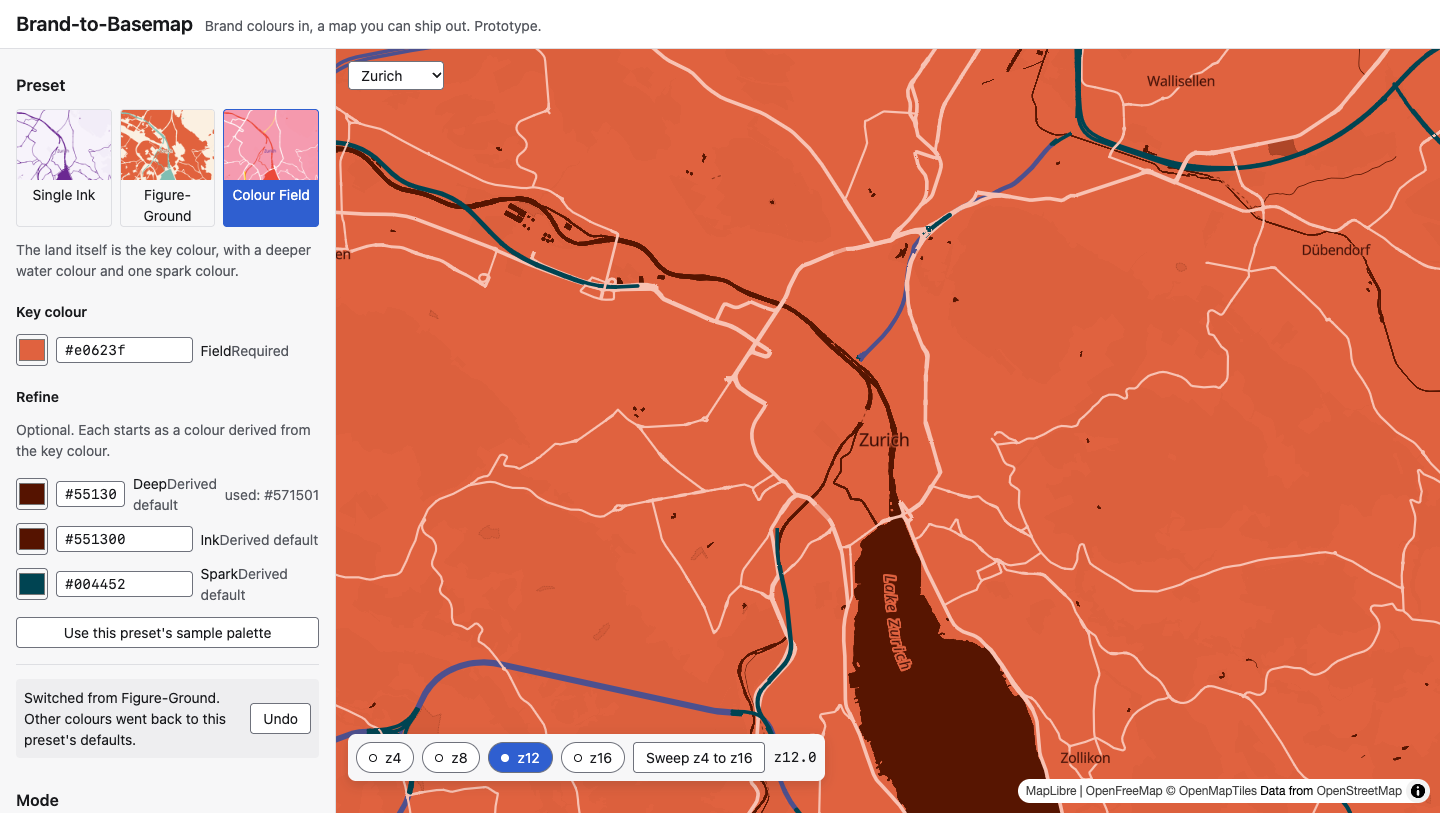
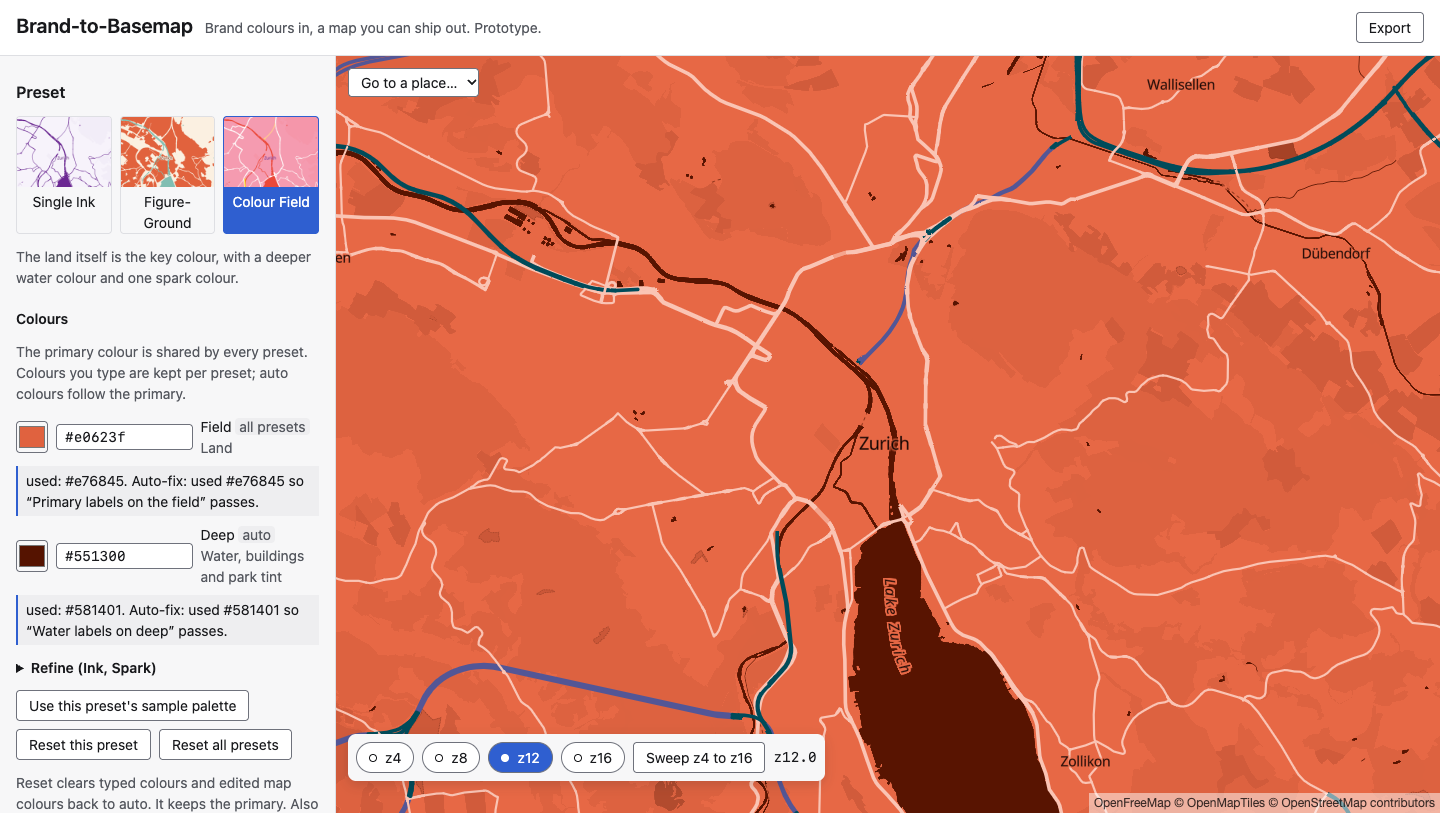
S4 housekeeping: docs match what is built, app capture scripts fixed
CLAUDE.md and the P0 requirements: MapTiler runs the Liberty-based style on
v3-openmaptiles tiles (not Streets v2); colour persistence is DECIDED;
per-zoom-stop pass/fail is dropped from P0; token export stays in F6; the
colour-vision preview joins F5; MapTiler terms note recorded.

capture-app-m3.mjs no longer clicks the removed undo notice: it checks that an
edit survives a preset switch instead. capture-app.mjs no longer clicks the
hidden Dark mode. App screenshots recaptured; the stale undo-notice.png is gone.

diff --git a/docs/p0-requirements.md b/docs/p0-requirements.md
@@ -34,7 +34,7 @@ P0 serves both segments (agencies/freelancers and small product teams) with the 
 3. **Add detail** — toggle groups and label density.
 4. **Switch modes** — light, dark, data (recede slider).
 5. **Check zooms** — zoom stops (z4 / z8 / z12 / z16) on the main map, with a sweep and a review dot per stop.
-6. **Check accessibility** — pass/fail per mode, colour-vision simulation, auto-fix.
+6. **Check accessibility** — pass/fail per mode, colour-vision preview, auto-fix.
 7. **Choose provider** — OpenFreeMap (default) or MapTiler with own key.
 8. **Export** — style JSON per mode, tokens (JSON, CSS), embed snippet.
 
@@ -89,7 +89,7 @@ Everything else depends on this, so it is specified first.
 - Four zoom stops (about z4, z8, z12, z16) sit as chips on the main map. Selecting one flies the single map to that zoom at the current centre.
 - A sweep button animates a smooth zoom through the whole range, so abrupt jumps in colour, line width or label visibility between stops become visible.
 - Each stop has a review dot. Any style change resets all dots to unreviewed; viewing a stop marks it reviewed. The dots are a reminder, not a gate.
-- Each stop also shows the F5 pass/fail status evaluated at its zoom, so a failing stop is flagged before the user visits it.
+- ~~Each stop also shows the F5 pass/fail status evaluated at its zoom, so a failing stop is flagged before the user visits it.~~ **Dropped from P0** (S4, Nov 24, 2026): the checks run on the tokens, which are the same at every zoom, so a per-stop status would repeat the per-mode one.
 - The location is the main map's: the user can pan anywhere or pick from 6 curated cities (default Zurich).
 - The stops are one click away at all times. P0 renders no second map; side-by-side comparison and per-zoom editing are out of scope.
 
@@ -100,8 +100,9 @@ Everything else depends on this, so it is specified first.
 - Checks contrast for label primary (7:1) and secondary (4.5:1) against the colours they sit on, with and without halo.
 - Checks features against land: road major and boundary 3:1; road minor 1.5:1; water and park by OKLab colour distance, not a ratio. The single 0.05 threshold proposed from the per-palette values in `docs/contrast-report.md` is superseded: each preset carries its own distance checks (see `docs/preset-engine.md`).
 - In data mode the road major / land threshold slides linearly from 3:1 at recede 0 to 1.5:1 at recede 100. Labels stay AA.
-- Shows a clear pass or fail summary, per mode and per zoom stop, with the failing token pairs named.
-- Colour-vision simulation toggle: protanopia, deuteranopia, tritanopia.
+- Shows pass or fail per mode, with the failing token pairs named next to the colour they belong to. Per-zoom-stop pass/fail is **dropped from P0** (S4).
+- **Colour-vision preview** (S4): a control in the map view with none, protanopia, deuteranopia, tritanopia and achromatopsia. It is a colour-matrix filter on the map canvas (Machado et al. 2009 for the three dichromacies, luminance for achromatopsia). Preview only: it changes nothing in the tokens, the state, the share link or the exports, and adds no checks or auto-fix rules. What collapses under each simulation is reported in [colour-vision.md](colour-vision.md).
+- **Data-mode auto-fix** (S4): the preset's auto-fix also runs on the data-mode colours after the recede transform, with the same rules, and its notices are labelled "In data mode:".
 - Auto-fix adjusts token lightness, keeping hue as close to the brand as possible, until checks pass. Shows what changed and allows undo.
 - Checks run on every change, not on demand only.
 
@@ -111,7 +112,7 @@ Everything else depends on this, so it is specified first.
 
 - Provider switch: OpenFreeMap (default, no key) or MapTiler (user pastes their own key, stored in localStorage, never in the URL). The deployed app ships with no key and there is no demo key.
 - Switching provider keeps the token set and re-applies it to that provider's base style.
-- Exports: MapLibre style JSON per mode; the token set as JSON and as CSS variables; a copy-paste HTML/JS embed snippet.
+- Exports: MapLibre style JSON per mode; the token set as JSON and as CSS variables; a copy-paste HTML/JS embed snippet. The token export **stays in P0** (confirmed Nov 24, 2026; built in S4): the resolved map tokens as DTCG JSON (`$type: "color"`, hex `$value`, grouped under `map`) and as `--b2b-<token>` CSS custom properties. It never contains a key.
 - The exported style includes a stable, documented anchor layer ID for "add your data above this, below the labels".
 - Required attribution is included automatically for the chosen provider.
 - The current state can be saved and reopened (decided: URL-encoded state in the hash plus local autosave; the MapTiler key is never put in the URL).
@@ -200,12 +201,21 @@ Presets replace the brand-colour list as the first decision. Spec: [presets-desi
 
 Brief: [briefs/m4-export-state.md](briefs/m4-export-state.md). Details: [export.md](export.md).
 
-- **Colour persistence (PM default, pending Artem):** the primary colour is global; each preset remembers its own typed slots and overrides (per mode); derived slots follow the primary and are never stored. "Reset this preset" and "Reset all presets" clear typed values and overrides and keep the primary. The one-step undo is gone: switching presets loses nothing. The sample-palette button sets the primary (for every preset) and types the sample colours for the current preset.
+- **Colour persistence (DECIDED, confirmed by Artem Nov 24, 2026):** the primary colour is global; each preset remembers its own typed slots and overrides (per mode); derived slots follow the primary and are never stored. "Reset this preset" and "Reset all presets" clear typed values and overrides and keep the primary. The one-step undo is gone: switching presets loses nothing. The sample-palette button sets the primary (for every preset) and types the sample colours for the current preset.
 - **State v3** (`BrandState`): `primary`, `presetId`, `perPreset`, `mode`, `recede`, `details`, `density`, `source`, `view`. In the hash as `#s=<base64url JSON>` and in localStorage; the hash wins; a bad hash loads defaults with a notice. The key is not part of the state.
 - **Exports:** an embed snippet (full HTML page, MapLibre 6.16.0 from unpkg, inline style, attribution always expanded) and a style JSON, both for the current mode. A persistent Export button sits in the header.
 - **Data anchor:** `b2b-data-anchor`, an invisible background layer after the last fill or line layer and before the first label.
 - **MapTiler source:** `v3-openmaptiles` tiles and MapTiler fonts with the same Liberty-based style; the sprite stays OpenFreeMap's (Liberty icon names). Logo and "© MapTiler, © OpenStreetMap contributors" when on. Exports carry `YOUR_MAPTILER_KEY` unless the user ticks "Include my key". Rendered comparison: same labels and layers, 1-2 feature differences from data builds.
-- **Notices:** every auto-fix shows next to its slot or map-colour row with the colour used; data-mode holds now report too, and a check that still fails after every fix shows next to its token. Per-zoom-stop pass/fail was skipped.
+- **Notices:** every auto-fix shows next to its slot or map-colour row with the colour used; data-mode holds now report too, and a check that still fails after every fix shows next to its token. Per-zoom-stop pass/fail was skipped, and is dropped from P0 (S4).
+
+### Decisions: finishing P0 (S4, Nov 24, 2026)
+
+Spec: [specs/s4-finish-p0.md](specs/s4-finish-p0.md).
+
+- **Base styles, as built:** Q1 above named MapTiler Streets v2. What ships is the Liberty-based style on both sources: OpenFreeMap tiles, or MapTiler `v3-openmaptiles` tiles with the user's key. Streets v2 is not used by the app.
+- **Per-zoom-stop pass/fail is dropped from P0.** The review dots stay.
+- **Token export stays in P0** (F6) and the **colour-vision preview** is added to F5, as a preview and a report only.
+- **MapTiler terms.** Fine for this case study, because every user supplies their own key and the logo and credit stay visible. A public or commercial product built on this needs MapTiler's agreement (their free plan covers non-commercial use and R&D only).
 
 ## Open items for the PM (spec additions, defaults apply unless Artem objects)
 
@@ -214,7 +224,7 @@ Brief: [briefs/m4-export-state.md](briefs/m4-export-state.md). Details: [export.
 - **Measuring the success criteria.** "Under 5 minutes" needs a timed test with 2–3 first-time users; "renders identically" needs a scripted check (export → plain MapLibre page → visual diff).
 - **Hosting and public link.** Claude Code's call (GitHub Pages or Vercel); no secrets in the repo.
 - **Test palettes.** Use palettes inspired by well-known brands but shown under fictional brand names, to avoid trademark use in a public case study.
-- **Export format details.** Snippet decided in M4 (CDN MapLibre 6.16.0, inline style). Still open: versioned token JSON schema and CSS variable naming, if the token exports stay in P0.
+- **Export format details.** Snippet decided in M4 (CDN MapLibre 6.16.0, inline style). Token exports decided in S4: DTCG JSON with the state schema version in `$extensions`, and `--b2b-<token>` CSS variables (see [export.md](export.md)).
 - **Browser support.** Latest Chrome, Safari, Firefox and Edge.
 
 ## Plan (2-day target)

diff --git a/docs/specs/s4-finish-p0.md b/docs/specs/s4-finish-p0.md
@@ -1,0 +1,74 @@
+# Spec: S4 batch, finish P0
+
+**Project:** Brand-to-Basemap, P0 prototype
+**From:** PM chat (owner: Artem)
+**Status:** ready. M4 is live and accepted. This batch finishes P0 before the design agency pass.
+**Branch:** one branch, `s4-finish-p0`. One workstream per commit series. Run the full test suite after each workstream.
+
+---
+
+## 1. Goal
+
+Close P0 with five small, independent workstreams. They touch different parts of the code (docs, export, engine, map view, repo front page), so they should not collide. Build them in the order below. If time runs short, drop workstream 4 and then 3, but always finish 5, because it captures the final state.
+
+**Out of scope:** UI or layout polish (the design agency owns it), new presets, dark mode, Streets v2, poster export, logo remap, hosting icons, per-zoom-stop pass/fail (dropped from P0).
+
+## 2. Workstreams
+
+### 2.1 Housekeeping (docs and scripts only)
+
+- `CLAUDE.md`: replace "MapTiler Streets v2" with "MapTiler tiles (v3-openmaptiles) with the Liberty-based style". Record the confirmed colour persistence rule as DECIDED.
+- `docs/p0-requirements.md`: mark per-zoom-stop pass/fail as dropped from P0. Keep token export in F6 as P0 (built in 2.2). Add the colour-vision preview to F5 (built in 2.4). Record the MapTiler terms note: fine for the case study with user-supplied keys; a public or commercial product needs MapTiler's agreement.
+- Fix `capture-app-m3.mjs`: it clicks the undo notice, which no longer exists. Fix it or retire it.
+
+**Done when:** the docs match what is built, and every capture script runs.
+
+### 2.2 Token export (F6)
+
+Add a third output to the Export panel, next to the snippet and the style JSON, with Copy and Download:
+- **Design tokens (DTCG JSON):** the resolved map tokens for the current state (preset, slots, overrides, mode, recede), one entry per token with `$type: "color"` and `$value` as hex, grouped under `map`. Put the preset id, the primary colour, the tile source and the state schema version in `$extensions`.
+- **CSS custom properties:** the same tokens as `--b2b-<token>: #xxxxxx;` in a `:root` block.
+
+**Done when:** a test confirms both outputs contain every resolved token and match the colours the map renders; the token export never contains a key. Add a short section to `docs/export.md`.
+
+### 2.3 Data-mode auto-fix (engine)
+
+Run the existing per-preset auto-fix on the data-mode colours after the recede transform, with the same rules: never change a colour the user typed, and show a notice (labelled "In data mode:") when something was adjusted.
+
+**Done when:** the yellow-primary case at recede 80 now passes the road threshold, and a property test over the 10 fixtures x 3 presets x recede 0-100 in steps of 10 finds every check passing or a notice raised.
+
+### 2.4 Colour-vision preview (F5, map view only)
+
+- A control in the map view: none, protanopia, deuteranopia, tritanopia, achromatopsia. It applies a colour-matrix filter to the map canvas (for example an SVG `feColorMatrix` with the Machado et al. 2009 matrices for the three dichromacies, and luminance for achromatopsia).
+- Preview only. It changes nothing in the tokens, the state, the link or the exports.
+- **Report, not checks:** a table in `docs/colour-vision.md` giving, for each preset and the 10 fixtures, the OKLab distance of the carrier pairs (water vs land, fabric vs water, field vs deep, major roads vs ground) under each simulation. Name the pairs that collapse below the existing separation thresholds. Do not add new auto-fix rules.
+
+**Done when:** the filter works on both tile sources, and the report exists with the collapsing pairs named.
+
+### 2.5 Repo front page and demo capture
+
+- `README.md` for the public repo, which is part of the case study:
+  - one paragraph on what it is, and the live link;
+  - how to use it in three steps;
+  - one screenshot per preset (from the M3 and M4 sheets in git, never the third-party reference frames);
+  - the export example with `beforeId: 'b2b-data-anchor'`;
+  - a short architecture section (the pipeline from preset and slots to auto-fix, overrides, data transform and style compiler);
+  - credits and attribution (OpenFreeMap, OpenMapTiles, OpenStreetMap contributors, MapTiler, MapLibre) and the licence.
+- A short demo capture (GIF or MP4, under 30 seconds) recorded with Playwright on the live build: pick a preset, change the primary colour, switch presets, sweep the zoom stops, open Export. Save it in `docs/screens/demo/` and embed it in the README.
+
+**Done when:** the README renders correctly on GitHub and the demo plays.
+
+## 3. Finish
+
+1. Full tests, lint, typecheck and build, then `npm run check-export`.
+2. A fresh history scan for keys and MapTiler style files.
+3. Merge to `main` and deploy to the same Pages URL.
+4. Report to Artem.
+
+## 4. Report format
+
+1. What is built, with links (live app, README, demo, colour-vision report).
+2. What was dropped for time, if anything.
+3. Decisions you made yourself.
+4. Open questions, each with your recommendation.
+5. What is left in P0, if anything.

diff --git a/CLAUDE.md b/CLAUDE.md
@@ -13,7 +13,7 @@ A web prototype: a designer enters 2-5 brand colours and gets a shippable, quali
 - **Design agency** (a separate Claude project): designs app UX, UI and branding in Figma after the working prototype exists (Phase 2). Not involved in P0.
 
 ## Locked decisions (Oct 31, 2026)
-- Base styles: OpenFreeMap **Liberty** and MapTiler **Streets v2**. Liberty is pinned in the repo. Streets is gitignored because of its licence: `npm run fetch-styles` gets it for local tests, and the deployed app fetches it at runtime with the user's key.
+- Base styles: OpenFreeMap **Liberty** and MapTiler tiles (v3-openmaptiles) with the Liberty-based style. Liberty is pinned in the repo and is the only style the app renders, on either tile source. The MapTiler Streets v2 style is not used by the app: its M1 mapping stays in the repo for the harness, and the style file is gitignored because of its licence (`npm run fetch-styles` gets it for local tests).
 - Palette derivation: **OKLCH** rules, tested on a set of 10 palettes.
 - Save/share: URL-encoded state in the hash plus local autosave. The MapTiler key is never put in the URL.
 - Data mode: a 0-100 "recede" slider on the light palette only (dark + data is P1). The sample data overlay is gone (app and harness).
@@ -32,7 +32,9 @@ A web prototype: a designer enters 2-5 brand colours and gets a shippable, quali
 The app is organised around **presets**: Single Ink, Figure-Ground, Colour Field. A preset is a JSON file in `presets/` that maps key-colour slots to the map tokens, with a treatment (widths, casings, dashes), detail defaults and its own checks. Only the primary colour is required. Liberty only; Dark hidden (code kept); modes are Light and Data. Schema 0.4.0 has 14 tokens (adds `urbanLanduse`, `roadMajorCasing`, `roadHighway`). Read `docs/preset-engine.md`; decisions are in `docs/p0-requirements.md`. The brand-colour engine in `src/palette` stays, unwired except for the data transform.
 
 ## Export, state and MapTiler (M4, Nov 22, 2026)
-State v3 (`src/app/brandState.ts`): the primary colour is global, each preset remembers its typed slots and overrides, derived slots are never stored. It goes in the hash (`#s=`) and localStorage autosave; the hash wins. Exports (`src/export/export.ts`): an HTML embed snippet and a style JSON, with the `b2b-data-anchor` layer under the labels. Tile source switch (`src/style/source.ts`): OpenFreeMap or MapTiler `v3-openmaptiles` with the user's key, same Liberty-based style, OpenFreeMap sprite on both. Read `docs/export.md`. Checks: `npm run check-export` (exported page in headless Chrome, both sources) and `npm run compare-sources` (OpenFreeMap vs MapTiler sheets); both read `MAPTILER_KEY` from `.env.local` and never write it outside `node_modules/.cache`.
+**DECIDED (Artem, Nov 24, 2026): colour persistence.** The primary colour is global; each preset remembers its own typed slots and overrides (per mode); derived slots follow the primary and are never stored. Switching presets loses nothing; the resets clear typed values and overrides and keep the primary.
+
+State v3 (`src/app/brandState.ts`) implements that rule. It goes in the hash (`#s=`) and localStorage autosave; the hash wins. Exports (`src/export/export.ts`): an HTML embed snippet and a style JSON, with the `b2b-data-anchor` layer under the labels. Tile source switch (`src/style/source.ts`): OpenFreeMap or MapTiler `v3-openmaptiles` with the user's key, same Liberty-based style, OpenFreeMap sprite on both. Read `docs/export.md`. Checks: `npm run check-export` (exported page in headless Chrome, both sources) and `npm run compare-sources` (OpenFreeMap vs MapTiler sheets); both read `MAPTILER_KEY` from `.env.local` and never write it outside `node_modules/.cache`.
 
 ## Working rules
 - **Lean and fast.** The target is a working, presentable P0 in 1-2 days. No scope creep; anything not in the P0 requirements is out. Decide small things yourself and note them in your report.
